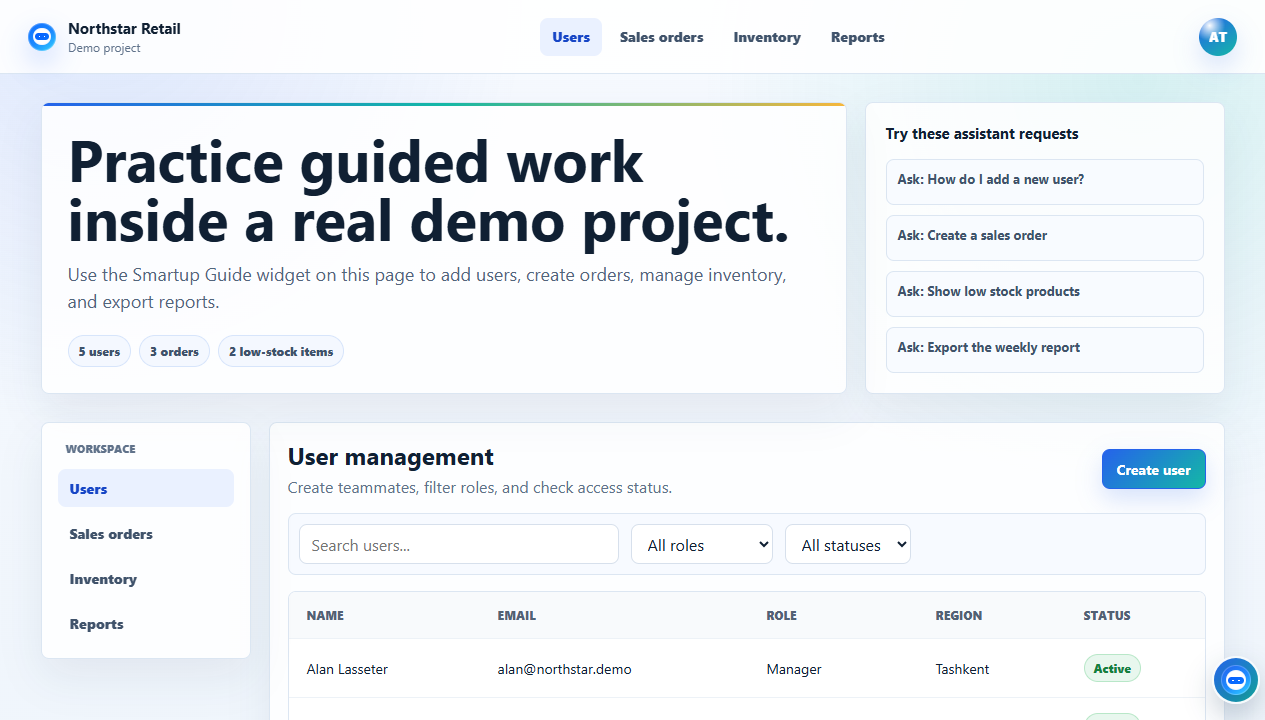
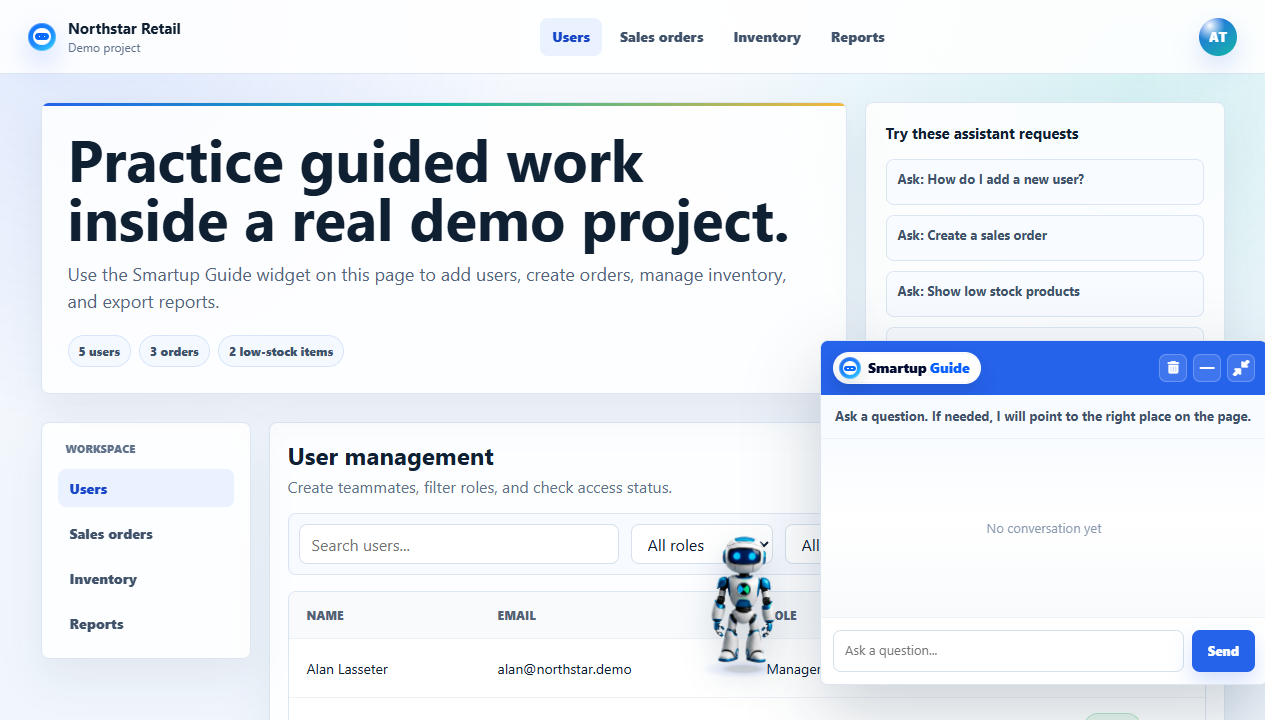
Update README screenshots

diff --git a/README.md b/README.md
@@ -21,9 +21,17 @@ Open:
 
 ## Screenshots
 
-| Landing page | Demo target |
+| Landing hero | Demo target with widget |
 | --- | --- |
 | ![Landing page](docs/screenshots/landing.png) | ![Demo target](docs/screenshots/demo.png) |
+
+| Feature cards | Workflow |
+| --- | --- |
+| ![Feature cards](docs/screenshots/landing-features.png) | ![Workflow](docs/screenshots/landing-workflow.png) |
+
+| Admin preview | Chat preview |
+| --- | --- |
+| ![Admin preview](docs/screenshots/landing-admin-preview.png) | ![Chat preview](docs/screenshots/landing-chat-preview.png) |
 
 | Admin login |
 | --- |
